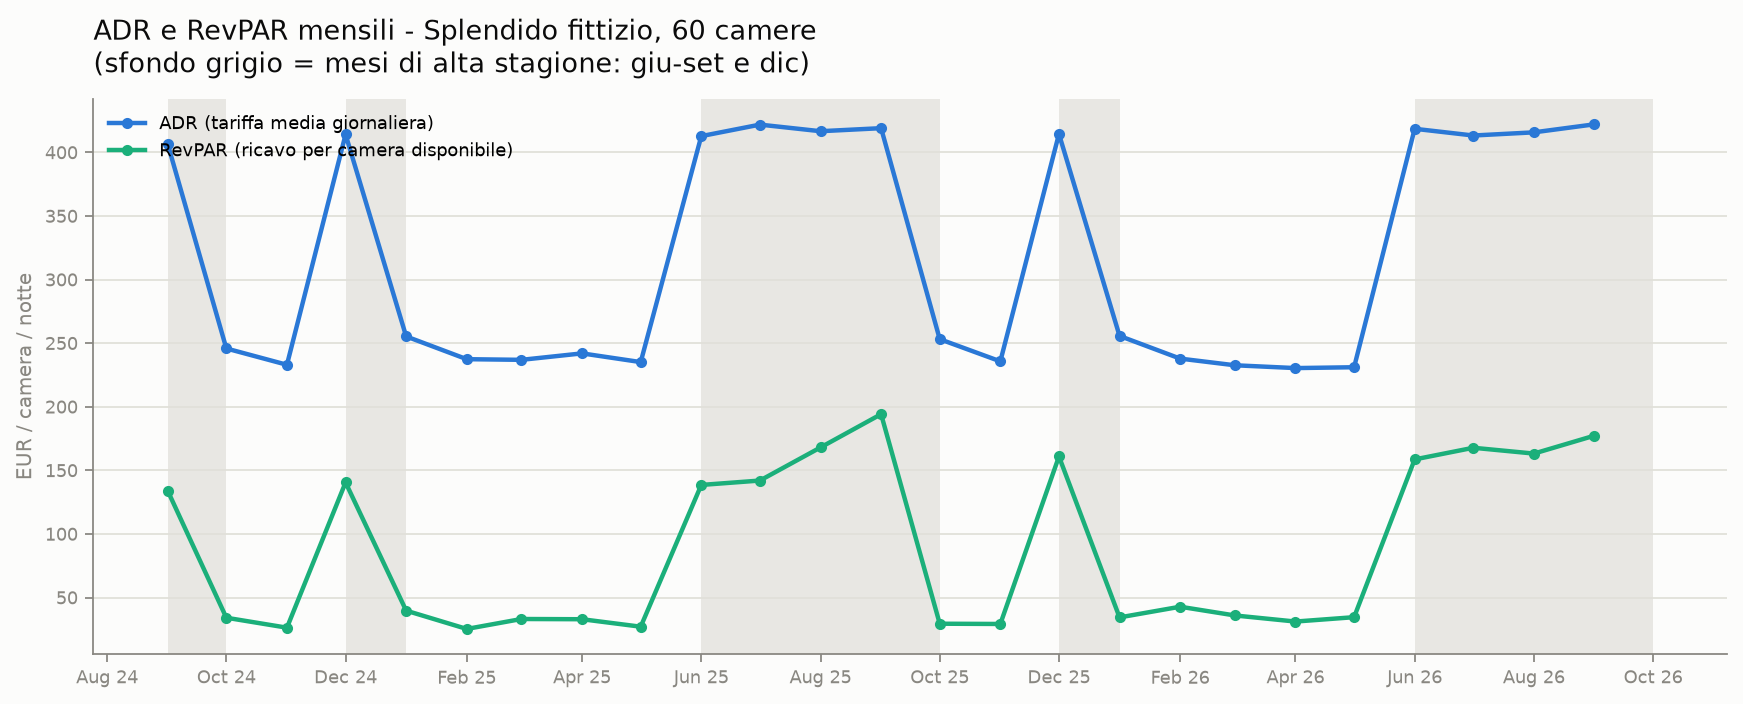
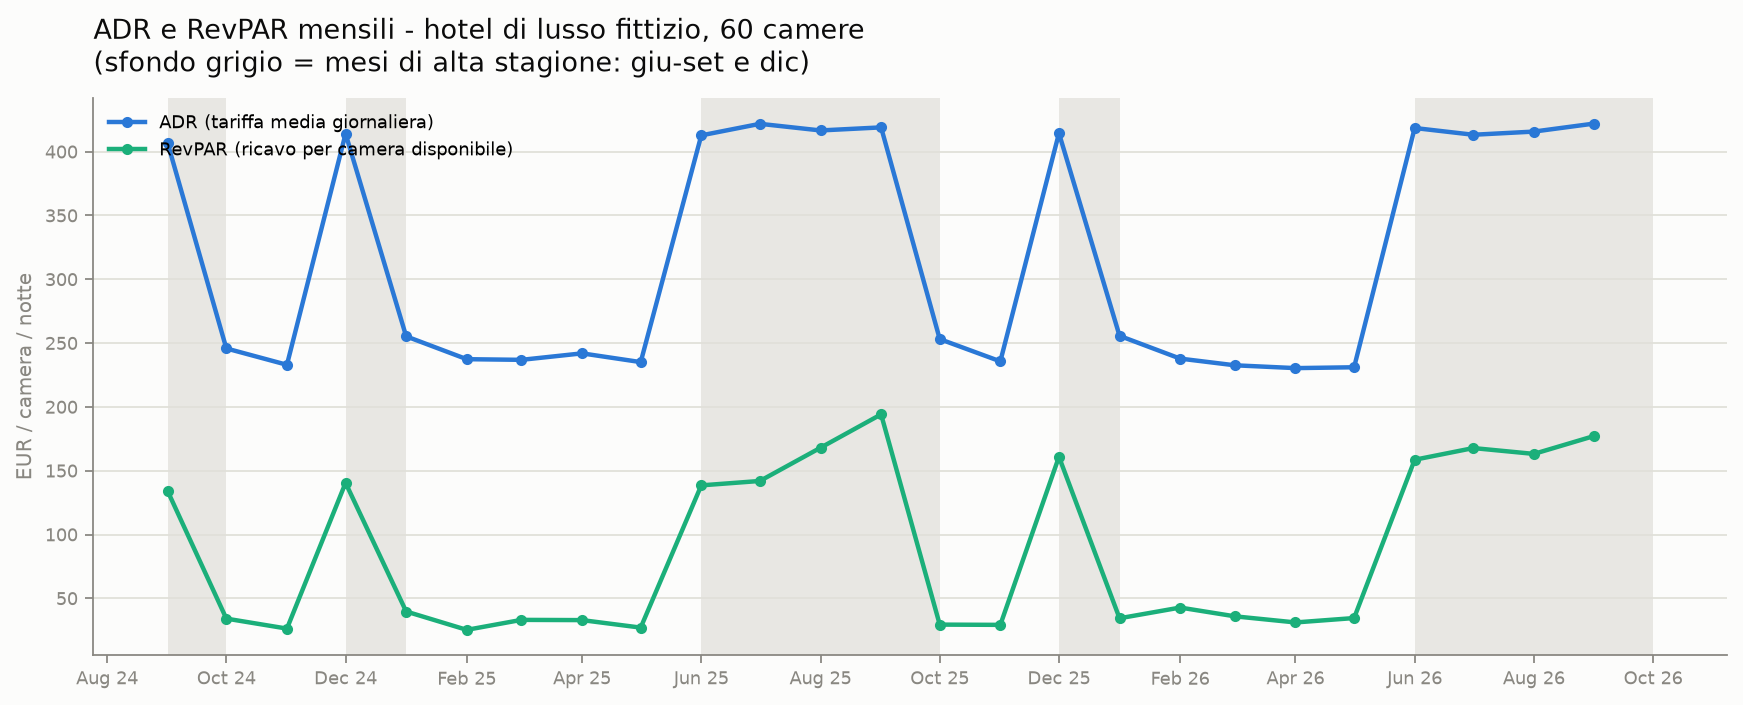
docs: chiarisce che il dataset non usa dati di hotel reali
Il titolo del grafico ADR/RevPAR citava lo Splendido: ora dice "hotel di
lusso fittizio". Il README specifica che nomi ed email degli ospiti sono
generati casualmente.

diff --git a/scripts/step2_revpar_seasonality.py b/scripts/step2_revpar_seasonality.py
@@ -111,7 +111,7 @@ ax0.plot(monthly["month"], monthly["ADR"], color=COL_ADR, lw=2, marker="o",
 ax0.plot(monthly["month"], monthly["RevPAR"], color=COL_REVPAR, lw=2, marker="o",
          markersize=4, label="RevPAR (ricavo per camera disponibile)")
 
-ax0.set_title("ADR e RevPAR mensili - Splendido fittizio, 60 camere\n"
+ax0.set_title("ADR e RevPAR mensili - hotel di lusso fittizio, 60 camere\n"
               "(sfondo grigio = mesi di alta stagione: giu-set e dic)",
               color=COL_TEXT, fontsize=12, loc="left", pad=12)
 ax0.set_ylabel("EUR / camera / notte", color=COL_MUTED, fontsize=9)

diff --git a/README.md b/README.md
@@ -4,7 +4,7 @@ Analisi end-to-end su un anno di prenotazioni di un hotel di lusso fittizio (60 
 
 Il taglio è volutamente hospitality invece che e-commerce: lavoro come Chef de Rang in hotel di lusso (Splendido, A Belmond Hotel — LVMH — e in precedenza La Posta Vecchia, Pellicano Hotels), e questo progetto nasce per applicare l'analisi statistica a un dominio che conosco da dentro, non solo sulla carta.
 
-**Il dataset è sintetico e generato da codice** (vedi sotto), con problemi di data quality e trappole statistiche inserite di proposito per rendere l'esercizio realistico: omonimie tra ospiti, valute miste, date corrotte, e un vero confondente stagionale sull'effetto di una promo.
+**Il dataset è sintetico e generato da codice** (vedi sotto), con problemi di data quality e trappole statistiche inserite di proposito per rendere l'esercizio realistico: omonimie tra ospiti, valute miste, date corrotte, e un vero confondente stagionale sull'effetto di una promo. Nomi, email e dati degli ospiti sono generati casualmente: non corrispondono a persone reali né a dati di hotel reali.
 
 ## Cosa contiene il repo
 
